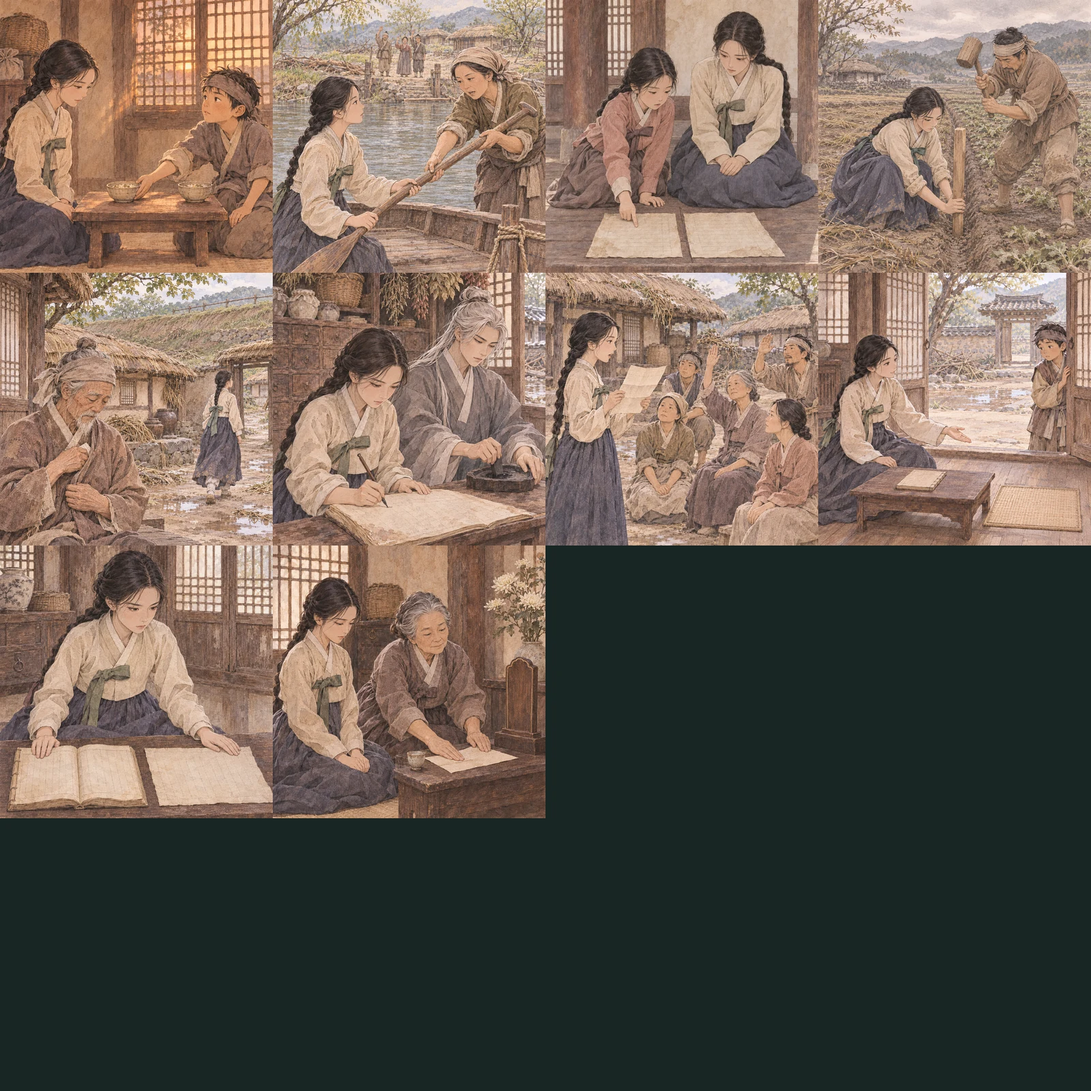
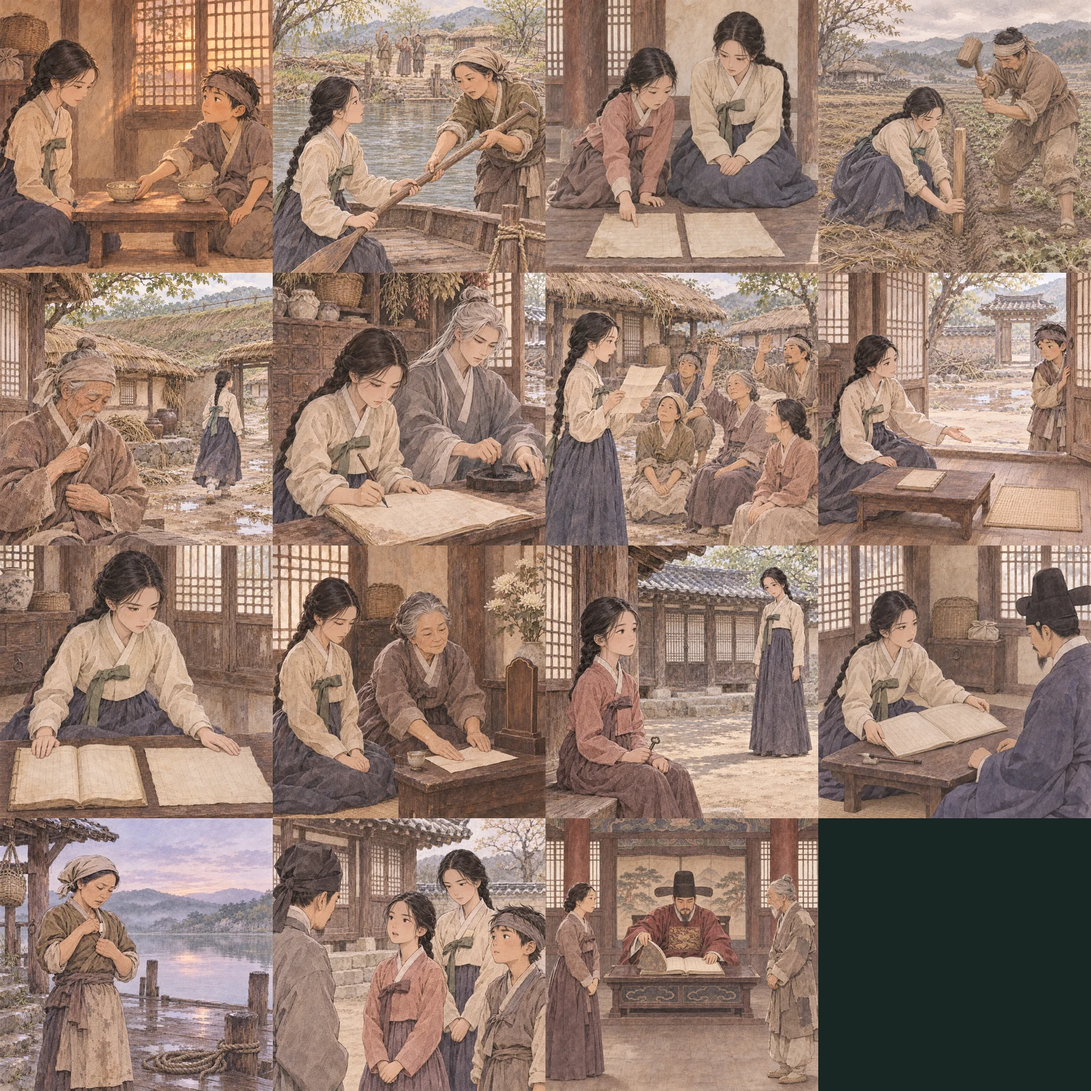
새 컷 S1-11~15, S2-11·12, S3-13~15 반영
모두 검수 통과. S2-11은 펼친 장부를 함께 짚는 그림이라 해설을 '다시 펼쳤다'로 맞췄다.

Claude-Session: https://claude.ai/code/session_01VZgG2bX25gLRz4FyidLT13

diff --git a/site/season-2-story.js b/site/season-2-story.js
@@ -320,7 +320,7 @@ const characterScenes = {
     waiting:['증언은 당사자가 직접 하겠다는 말을 듣고 하 서리는 원래 장부가 있는 방에서 기다리기로 했다.',[['하 서리','저도 부르면 이 줄을 옮긴 경위를 말하겠습니다. 아직은 장부를 비울 수 없소.']]],
     sealed:['인계할 사람부터 확인하겠다고 하자 하 서리는 자기 수결을 별지에 접었다.',[['하 서리','누가 받는지 알면 이 종이를 읽도록 하시오. 장부와 다른 방에 둬야 남을 겁니다.']]]
   },
-  namedSource:['서겸이 밝힌 방 이름을 듣고 하 서리가 장부를 덮었다. 두 사람은 같은 방을 기억했으나 문서를 옮긴 시각을 다르게 말했다.',[
+  namedSource:['서겸이 밝힌 방 이름을 듣고 하 서리가 장부를 다시 펼쳤다. 두 사람은 같은 방을 짚었으나 문서를 옮긴 시각을 다르게 말했다.',[
     ['하 서리','제가 장부를 덮은 건 종이 울리기 전이었습니다.'],
     ['서겸','제가 봉투를 받은 건 종이 울린 뒤였어요. 제가 받은 사람이 그 장부를 직접 썼는지는 모릅니다.'],
     ['이서','그 사이에 누가 방에 들어왔는지 물을 수 있겠군요.']]],

diff --git a/site/season-3-new-slots.js b/site/season-3-new-slots.js
@@ -1,3 +1,3 @@
 // tools/build-new-cuts.py가 만든다. season-3-new.webp에 실제로 들어간 새 컷과 칸 번호.
-var NEW_CUT_SLOTS_3 = {'S3-01':0,'S3-02':1,'S3-03':2,'S3-04':3,'S3-05':4,'S3-06':5,'S3-07':6,'S3-08':7,'S3-09':8,'S3-10':9,'S3-11':10,'S3-12':11};
+var NEW_CUT_SLOTS_3 = {'S3-01':0,'S3-02':1,'S3-03':2,'S3-04':3,'S3-05':4,'S3-06':5,'S3-07':6,'S3-08':7,'S3-09':8,'S3-10':9,'S3-11':10,'S3-12':11,'S3-13':12,'S3-14':13,'S3-15':14};
 var NEW_CUT_ROWS_3 = 11;

diff --git a/site/season-2-new-slots.js b/site/season-2-new-slots.js
@@ -1,2 +1,2 @@
 // tools/build-new-cuts.py가 만든다. season-2-new.webp에 실제로 들어간 새 컷과 칸 번호.
-var NEW_CUT_SLOTS = {'S2-01':0,'S2-02':1,'S2-03':2,'S2-04':3,'S2-05':4,'S2-06a':5,'S2-06b':6,'S2-06c':7,'S2-06d':8,'S2-07':9,'S2-08':10,'S2-09':11,'S2-10':12};
+var NEW_CUT_SLOTS = {'S2-01':0,'S2-02':1,'S2-03':2,'S2-04':3,'S2-05':4,'S2-06a':5,'S2-06b':6,'S2-06c':7,'S2-06d':8,'S2-07':9,'S2-08':10,'S2-09':11,'S2-10':12,'S2-11':13,'S2-12':14};

diff --git a/site/season-1-new-slots.js b/site/season-1-new-slots.js
@@ -1,2 +1,2 @@
 // tools/build-new-cuts.py가 만든다. season-1-new.webp에 실제로 들어간 새 컷과 칸 번호.
-var NEW_CUT_SLOTS_1 = {'S1-01':0,'S1-02':1,'S1-03':2,'S1-04':3,'S1-05':4,'S1-06':5,'S1-07':6,'S1-08':7,'S1-09':8,'S1-10':9};
+var NEW_CUT_SLOTS_1 = {'S1-01':0,'S1-02':1,'S1-03':2,'S1-04':3,'S1-05':4,'S1-06':5,'S1-07':6,'S1-08':7,'S1-09':8,'S1-10':9,'S1-11':10,'S1-12':11,'S1-13':12,'S1-14':13,'S1-15':14};
